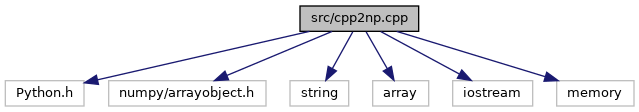
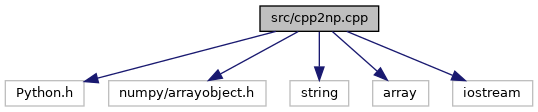
minor changes to project

Changed region(s): [[0.0, 0.0268, 1.0, 0.9643], [0.3271, 0.5357, 0.4461, 0.7232], [0.4164, 0.4554, 0.4758, 0.5625]]

diff --git a/docs/html/cpp2np_8cpp.html b/docs/html/cpp2np_8cpp.html
@@ -78,24 +78,25 @@ $(function() {
 <code>#include &lt;string&gt;</code><br />
 <code>#include &lt;array&gt;</code><br />
 <code>#include &lt;iostream&gt;</code><br />
-<code>#include &lt;memory&gt;</code><br />
 </div><div class="textblock"><div class="dynheader">
 Include dependency graph for cpp2np.cpp:</div>
 <div class="dyncontent">
 <div class="center"><img src="cpp2np_8cpp__incl.png" border="0" usemap="#src_2cpp2np_8cpp" alt=""/></div>
 <map name="src_2cpp2np_8cpp" id="src_2cpp2np_8cpp">
-<area shape="rect" title=" " alt="" coords="300,5,419,32"/>
+<area shape="rect" title=" " alt="" coords="260,5,379,32"/>
 <area shape="rect" title=" " alt="" coords="5,80,84,107"/>
 <area shape="rect" title=" " alt="" coords="109,80,266,107"/>
 <area shape="rect" title=" " alt="" coords="290,80,349,107"/>
 <area shape="rect" title=" " alt="" coords="373,80,429,107"/>
 <area shape="rect" title=" " alt="" coords="453,80,533,107"/>
-<area shape="rect" title=" " alt="" coords="557,80,634,107"/>
 </map>
 </div>
 </div><table class="memberdecls">
 <tr class="heading"><td colspan="2"><h2 class="groupheader"><a name="define-members"></a>
 Macros</h2></td></tr>
+<tr class="memitem:ac9efdaac9411d0868b715edccca3269d"><td class="memItemLeft" align="right" valign="top"><a id="ac9efdaac9411d0868b715edccca3269d"></a>
+#define&#160;</td><td class="memItemRight" valign="bottom"><b>PY_SSIZE_T_CLEAN</b></td></tr>
+<tr class="separator:ac9efdaac9411d0868b715edccca3269d"><td class="memSeparator" colspan="2">&#160;</td></tr>
 <tr class="memitem:ab6e6ee86736f9ebb56e74ae21bf3ff8a"><td class="memItemLeft" align="right" valign="top"><a id="ab6e6ee86736f9ebb56e74ae21bf3ff8a"></a>
 #define&#160;</td><td class="memItemRight" valign="bottom"><b>NPY_NO_DEPRECATED_API</b>&#160;&#160;&#160;NPY_API_VERSION</td></tr>
 <tr class="separator:ab6e6ee86736f9ebb56e74ae21bf3ff8a"><td class="memSeparator" colspan="2">&#160;</td></tr>
@@ -563,15 +564,15 @@ Variables</h2></td></tr>
 </div>
 </div>
 </div><!-- contents -->
-<div class="ttc" id="acpp2np_8cpp_html_a9eb9de49fffad1ff7da918399220dafb"><div class="ttname"><a href="cpp2np_8cpp.html#a9eb9de49fffad1ff7da918399220dafb">cpp2np_free</a></div><div class="ttdeci">static PyObject * cpp2np_free(PyObject *self, PyObject *args, PyObject *kwargs)</div><div class="ttdef"><b>Definition:</b> cpp2np.cpp:172</div></div>
-<div class="ttc" id="acpp2np_8cpp_html_ad516189b4963ba92b3b33f3f6eb0248b"><div class="ttname"><a href="cpp2np_8cpp.html#ad516189b4963ba92b3b33f3f6eb0248b">cpp2np_wrap</a></div><div class="ttdeci">static PyObject * cpp2np_wrap(PyObject *self, PyObject *args, PyObject *kwargs)</div><div class="ttdef"><b>Definition:</b> cpp2np.cpp:41</div></div>
-<div class="ttc" id="acpp2np_8cpp_html_a7d3e5c23d89290c09a8e5bdf680b3033"><div class="ttname"><a href="cpp2np_8cpp.html#a7d3e5c23d89290c09a8e5bdf680b3033">cpp2np_c_arr_i4</a></div><div class="ttdeci">static PyObject * cpp2np_c_arr_i4(PyObject *self, PyObject *args)</div><div class="ttdoc">allocates a c++ array of 32 bit integer.</div><div class="ttdef"><b>Definition:</b> cpp2np.cpp:209</div></div>
-<div class="ttc" id="acpp2np_8cpp_html_a29bc172d9661a22bd8a78b4e3fa082af"><div class="ttname"><a href="cpp2np_8cpp.html#a29bc172d9661a22bd8a78b4e3fa082af">cpp2np_docs</a></div><div class="ttdeci">static char cpp2np_docs[]</div><div class="ttdoc">stores docstring information of the module</div><div class="ttdef"><b>Definition:</b> cpp2np.cpp:285</div></div>
-<div class="ttc" id="acpp2np_8cpp_html_a116ef0d3a964068a358e63860c0a4380"><div class="ttname"><a href="cpp2np_8cpp.html#a116ef0d3a964068a358e63860c0a4380">cpp2np_py_free</a></div><div class="ttdeci">static PyObject * cpp2np_py_free(PyObject *self, PyObject *args, PyObject *kwargs)</div><div class="ttdef"><b>Definition:</b> cpp2np.cpp:193</div></div>
-<div class="ttc" id="acpp2np_8cpp_html_af43f42e6db326f822b4be73ff0061ba9"><div class="ttname"><a href="cpp2np_8cpp.html#af43f42e6db326f822b4be73ff0061ba9">cpp2np_funcs</a></div><div class="ttdeci">static PyMethodDef cpp2np_funcs[]</div><div class="ttdoc">mapping of module functions and docstrings</div><div class="ttdef"><b>Definition:</b> cpp2np.cpp:290</div></div>
-<div class="ttc" id="acpp2np_8cpp_html_a8b1ee65b6b9f8a5e3cf2a49bffe80310"><div class="ttname"><a href="cpp2np_8cpp.html#a8b1ee65b6b9f8a5e3cf2a49bffe80310">cpp2np_descr</a></div><div class="ttdeci">static PyObject * cpp2np_descr(PyObject *self, PyObject *args, PyObject *kwargs)</div><div class="ttdef"><b>Definition:</b> cpp2np.cpp:93</div></div>
-<div class="ttc" id="acpp2np_8cpp_html_a9a339ae37b25d9fafa2cc01fa3253d9a"><div class="ttname"><a href="cpp2np_8cpp.html#a9a339ae37b25d9fafa2cc01fa3253d9a">cpp2np_c_arr_pixel</a></div><div class="ttdeci">static PyObject * cpp2np_c_arr_pixel(PyObject *self, PyObject *args)</div><div class="ttdoc">Returns a 8x8 pixel matrix used in the demo script.</div><div class="ttdef"><b>Definition:</b> cpp2np.cpp:219</div></div>
-<div class="ttc" id="acpp2np_8cpp_html_ac9b906d1ee3085d634b4b8009169ef1d"><div class="ttname"><a href="cpp2np_8cpp.html#ac9b906d1ee3085d634b4b8009169ef1d">cpp2np_print_testarr</a></div><div class="ttdeci">static PyObject * cpp2np_print_testarr(PyObject *self, PyObject *args, PyObject *kwargs)</div><div class="ttdoc">Prints an 8x8 matrix of int16 to standard output.</div><div class="ttdef"><b>Definition:</b> cpp2np.cpp:243</div></div>
+<div class="ttc" id="acpp2np_8cpp_html_a9eb9de49fffad1ff7da918399220dafb"><div class="ttname"><a href="cpp2np_8cpp.html#a9eb9de49fffad1ff7da918399220dafb">cpp2np_free</a></div><div class="ttdeci">static PyObject * cpp2np_free(PyObject *self, PyObject *args, PyObject *kwargs)</div><div class="ttdef"><b>Definition:</b> cpp2np.cpp:171</div></div>
+<div class="ttc" id="acpp2np_8cpp_html_ad516189b4963ba92b3b33f3f6eb0248b"><div class="ttname"><a href="cpp2np_8cpp.html#ad516189b4963ba92b3b33f3f6eb0248b">cpp2np_wrap</a></div><div class="ttdeci">static PyObject * cpp2np_wrap(PyObject *self, PyObject *args, PyObject *kwargs)</div><div class="ttdef"><b>Definition:</b> cpp2np.cpp:40</div></div>
+<div class="ttc" id="acpp2np_8cpp_html_a7d3e5c23d89290c09a8e5bdf680b3033"><div class="ttname"><a href="cpp2np_8cpp.html#a7d3e5c23d89290c09a8e5bdf680b3033">cpp2np_c_arr_i4</a></div><div class="ttdeci">static PyObject * cpp2np_c_arr_i4(PyObject *self, PyObject *args)</div><div class="ttdoc">allocates a c++ array of 32 bit integer.</div><div class="ttdef"><b>Definition:</b> cpp2np.cpp:208</div></div>
+<div class="ttc" id="acpp2np_8cpp_html_a29bc172d9661a22bd8a78b4e3fa082af"><div class="ttname"><a href="cpp2np_8cpp.html#a29bc172d9661a22bd8a78b4e3fa082af">cpp2np_docs</a></div><div class="ttdeci">static char cpp2np_docs[]</div><div class="ttdoc">stores docstring information of the module</div><div class="ttdef"><b>Definition:</b> cpp2np.cpp:284</div></div>
+<div class="ttc" id="acpp2np_8cpp_html_a116ef0d3a964068a358e63860c0a4380"><div class="ttname"><a href="cpp2np_8cpp.html#a116ef0d3a964068a358e63860c0a4380">cpp2np_py_free</a></div><div class="ttdeci">static PyObject * cpp2np_py_free(PyObject *self, PyObject *args, PyObject *kwargs)</div><div class="ttdef"><b>Definition:</b> cpp2np.cpp:192</div></div>
+<div class="ttc" id="acpp2np_8cpp_html_af43f42e6db326f822b4be73ff0061ba9"><div class="ttname"><a href="cpp2np_8cpp.html#af43f42e6db326f822b4be73ff0061ba9">cpp2np_funcs</a></div><div class="ttdeci">static PyMethodDef cpp2np_funcs[]</div><div class="ttdoc">mapping of module functions and docstrings</div><div class="ttdef"><b>Definition:</b> cpp2np.cpp:289</div></div>
+<div class="ttc" id="acpp2np_8cpp_html_a8b1ee65b6b9f8a5e3cf2a49bffe80310"><div class="ttname"><a href="cpp2np_8cpp.html#a8b1ee65b6b9f8a5e3cf2a49bffe80310">cpp2np_descr</a></div><div class="ttdeci">static PyObject * cpp2np_descr(PyObject *self, PyObject *args, PyObject *kwargs)</div><div class="ttdef"><b>Definition:</b> cpp2np.cpp:92</div></div>
+<div class="ttc" id="acpp2np_8cpp_html_a9a339ae37b25d9fafa2cc01fa3253d9a"><div class="ttname"><a href="cpp2np_8cpp.html#a9a339ae37b25d9fafa2cc01fa3253d9a">cpp2np_c_arr_pixel</a></div><div class="ttdeci">static PyObject * cpp2np_c_arr_pixel(PyObject *self, PyObject *args)</div><div class="ttdoc">Returns a 8x8 pixel matrix used in the demo script.</div><div class="ttdef"><b>Definition:</b> cpp2np.cpp:218</div></div>
+<div class="ttc" id="acpp2np_8cpp_html_ac9b906d1ee3085d634b4b8009169ef1d"><div class="ttname"><a href="cpp2np_8cpp.html#ac9b906d1ee3085d634b4b8009169ef1d">cpp2np_print_testarr</a></div><div class="ttdeci">static PyObject * cpp2np_print_testarr(PyObject *self, PyObject *args, PyObject *kwargs)</div><div class="ttdoc">Prints an 8x8 matrix of int16 to standard output.</div><div class="ttdef"><b>Definition:</b> cpp2np.cpp:242</div></div>
 <!-- start footer part -->
 <hr class="footer"/><address class="footer"><small>
 Generated by &#160;<a href="http://www.doxygen.org/index.html">

diff --git a/docs/html/md_readme.html b/docs/html/md_readme.html
@@ -173,7 +173,7 @@ Create regular numpy array:</h2>
 </div><!-- fragment --><h2><a class="anchor" id="autotoc_md17"></a>
 Retrieve pointer</h2>
 <div class="fragment"><div class="line">&gt;&gt;&gt; ptr = c2n.descr(new_arr)[&#39;data&#39;]</div>
-<div class="line">&gt;&gt;&gt; print(&quot;pointer in python: &quot; + str(new_arr_ptr))</div>
+<div class="line">&gt;&gt;&gt; print(&quot;pointer in python: &quot; + str(ptr))</div>
 <div class="line"> </div>
 <div class="line">pointer in python: 35841504</div>
 </div><!-- fragment --><h2><a class="anchor" id="autotoc_md18"></a>

diff --git a/src/cpp2np.cpp b/src/cpp2np.cpp
@@ -1,5 +1,5 @@
 /// \file cpp2np.cpp
-
+#define PY_SSIZE_T_CLEAN
 #include <Python.h>
 
 #define NPY_NO_DEPRECATED_API NPY_API_VERSION
@@ -7,7 +7,6 @@
 #include <string>
 #include <array>
 #include <iostream>
-#include <memory>
  
 static PyObject* hello(PyObject* self, PyObject* args){
     std::string s = "Hello Python, this is C++!";
@@ -281,10 +280,7 @@ static PyObject* cpp2np_owndata(PyObject* self, PyObject* args, PyObject* kwargs
     Py_RETURN_NONE;  // return Py_newRef(Py_None)
 }
 
-/// stores docstring information of the module
-static char cpp2np_docs[] = {
-    "C Numpy extension for wrapping continuous C/C++ style arrays inside a numpy array using the same memory buffer.\n"
-};
+
 
 /// mapping of module functions and docstrings
 static PyMethodDef cpp2np_funcs[] = {
@@ -298,6 +294,11 @@ static PyMethodDef cpp2np_funcs[] = {
     {"py_free", (PyCFunction)cpp2np_py_free, METH_VARARGS | METH_KEYWORDS, "Frees the memory the pointer is referencing"},
     {"owndata", (PyCFunction)cpp2np_owndata, METH_VARARGS | METH_KEYWORDS, "sets or unset the owndata flag on a numpy array"},
     {nullptr, nullptr, 0, nullptr}
+};
+
+/// stores docstring information of the module
+static char cpp2np_docs[] = {
+    "C Numpy extension for wrapping continuous C/C++ style arrays inside a numpy array using the same memory buffer.\n"
 };
 
 static struct PyModuleDef cpp2npmodule = {

diff --git a/docs/latex/cpp2np_8cpp.tex b/docs/latex/cpp2np_8cpp.tex
@@ -5,7 +5,6 @@
 {\ttfamily \#include $<$string$>$}\newline
 {\ttfamily \#include $<$array$>$}\newline
 {\ttfamily \#include $<$iostream$>$}\newline
-{\ttfamily \#include $<$memory$>$}\newline
 Include dependency graph for cpp2np.\+cpp\+:\nopagebreak
 \begin{figure}[H]
 \begin{center}
@@ -15,6 +14,9 @@ Include dependency graph for cpp2np.\+cpp\+:\nopagebreak
 \end{figure}
 \doxysubsection*{Macros}
 \begin{DoxyCompactItemize}
+\item 
+\mbox{\Hypertarget{cpp2np_8cpp_ac9efdaac9411d0868b715edccca3269d}\label{cpp2np_8cpp_ac9efdaac9411d0868b715edccca3269d}} 
+\#define {\bfseries P\+Y\+\_\+\+S\+S\+I\+Z\+E\+\_\+\+T\+\_\+\+C\+L\+E\+AN}
 \item 
 \mbox{\Hypertarget{cpp2np_8cpp_ab6e6ee86736f9ebb56e74ae21bf3ff8a}\label{cpp2np_8cpp_ab6e6ee86736f9ebb56e74ae21bf3ff8a}} 
 \#define {\bfseries N\+P\+Y\+\_\+\+N\+O\+\_\+\+D\+E\+P\+R\+E\+C\+A\+T\+E\+D\+\_\+\+A\+PI}~N\+P\+Y\+\_\+\+A\+P\+I\+\_\+\+V\+E\+R\+S\+I\+ON

diff --git a/demo3.py b/demo3.py
@@ -7,9 +7,12 @@ new_arr = np.ones((8,8), dtype="uint8")
 # retrieve pointer 
 ptr = c2n.descr(new_arr)['data']
 print("pointer in python: " + str(ptr))
+print("owndata: " + str(new_arr.flags['OWNDATA']))
 
 # disable OWNDATA flag in numpy array to prevent it from deleting the memory
+print("-> disable flag")
 c2n.owndata(new_arr, False)
+print("owndata: " + str(new_arr.flags['OWNDATA']))
 
 # now delete numpy array
 del new_arr

diff --git a/demo2.py b/demo2.py
@@ -4,7 +4,6 @@ import matplotlib.pyplot as plt
 import scipy.fftpack as sfft
 import cpp2np as c2n
 
-                
 def quant1(V8,p):
     V8 = V8.astype('int16') - 128
     A = sfft.dctn(V8, norm='ortho')
@@ -37,7 +36,6 @@ img = Image.fromarray(pixel).convert('LA')
 plt.figure(1)
 plt.imshow(img)
 plt.show()
-
 
 # apply cosine transformation for compression
 print("\n\n3) Compress image with 2D cosine transformation:\n")

diff --git a/docs/latex/md_readme.tex b/docs/latex/md_readme.tex
@@ -135,7 +135,7 @@ Demonstrates the usage of cpp2np in the other direction. Allocating memory in nu
 
 \begin{DoxyCode}{0}
 \DoxyCodeLine{>>> ptr = c2n.descr(new\_arr)['data']}
-\DoxyCodeLine{>>> print("pointer in python: " + str(new\_arr\_ptr))}
+\DoxyCodeLine{>>> print("pointer in python: " + str(ptr))}
 \DoxyCodeLine{}
 \DoxyCodeLine{pointer in python: 35841504}
 \end{DoxyCode}

diff --git a/readme.md b/readme.md
@@ -161,7 +161,7 @@ Demonstrates the usage of cpp2np in the other direction. Allocating memory in nu
 
 ```python
 >>> ptr = c2n.descr(new_arr)['data']
->>> print("pointer in python: " + str(new_arr_ptr))
+>>> print("pointer in python: " + str(ptr))
 
 pointer in python: 35841504
 ```
